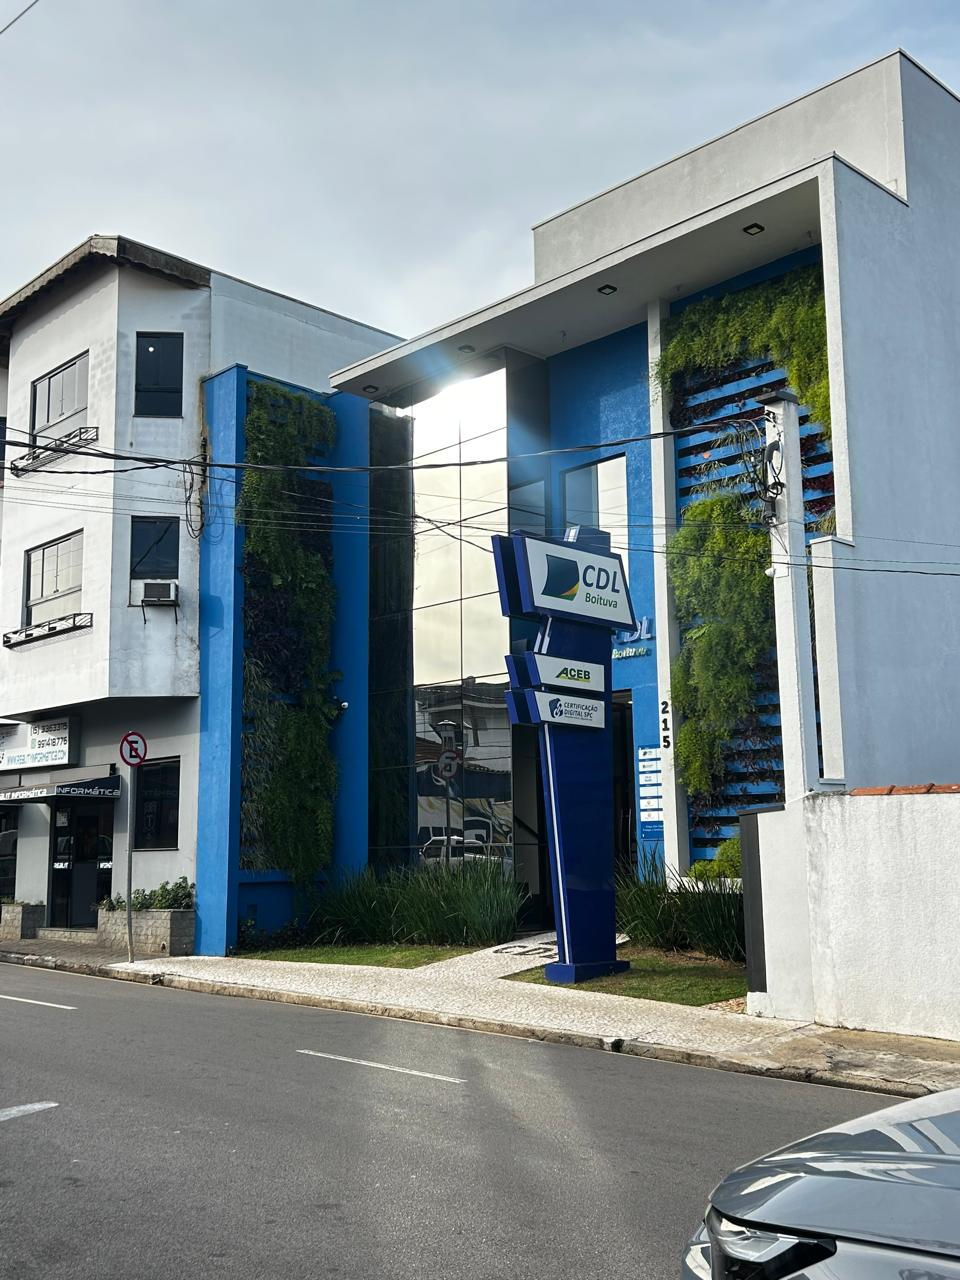
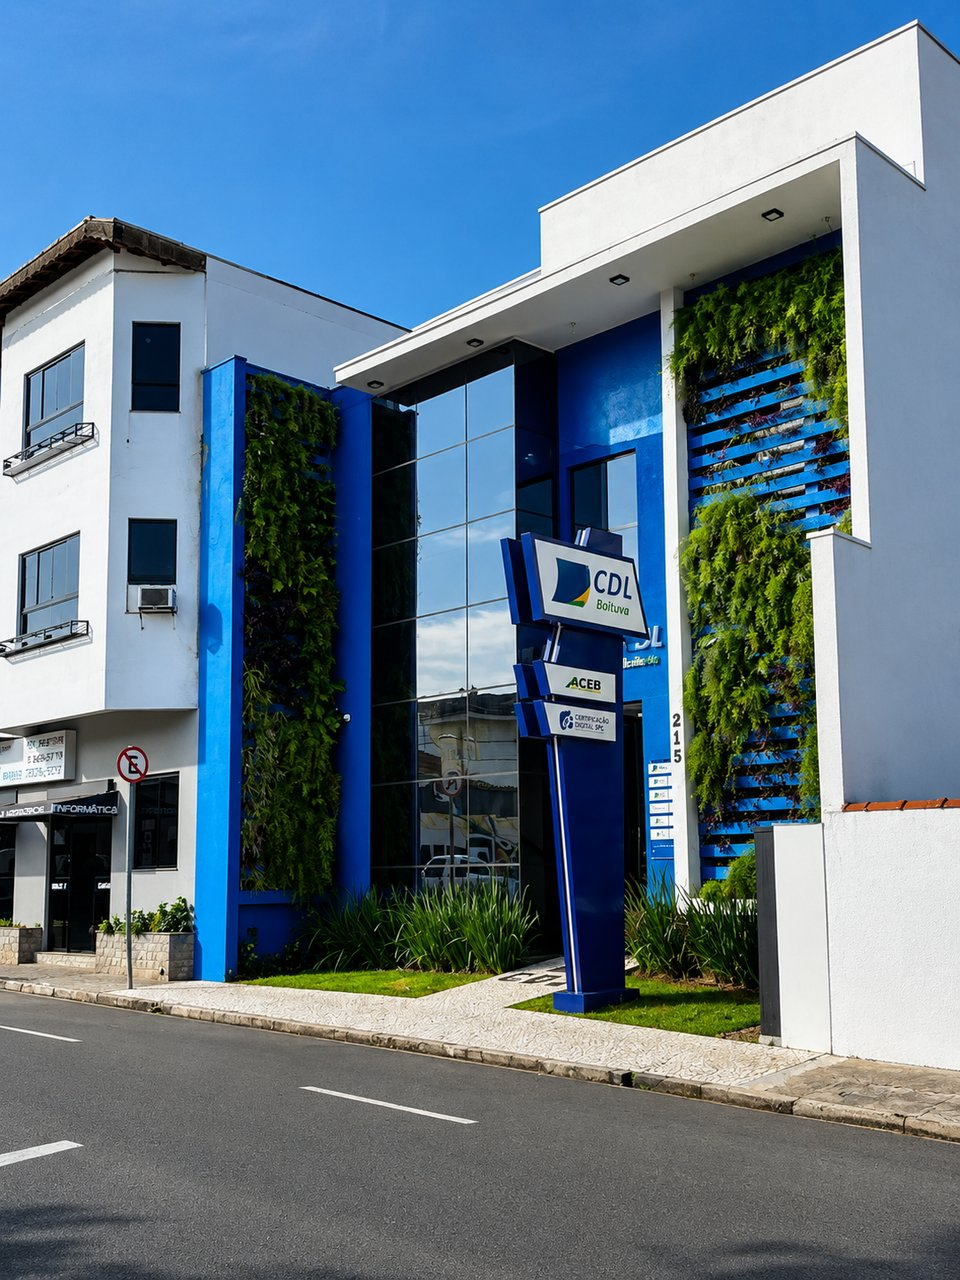
feat: adiciona lightbox nas galerias e ajusta fotos de Salas Comerciais
- Adiciona lightbox (clique para ampliar, navegar e fechar com Esc) em
  todas as paginas de empreendimentos via js/script.js
- Deixa as fotos da galeria menos alongadas em todos os breakpoints
- Atualiza foto de Salas Comerciais (fachada CDL Boituva) com imagem
  em melhor qualidade e angulo

diff --git a/js/script.js b/js/script.js
@@ -184,3 +184,79 @@ if (scrollDown) {
     window.scrollBy({ top: window.innerHeight * 0.8, behavior: 'smooth' });
   });
 }
+
+// ── Lightbox das galerias de empreendimentos ──
+(function () {
+  const galleries = document.querySelectorAll('.emp-gallery');
+  if (!galleries.length) return;
+
+  const lightbox = document.createElement('div');
+  lightbox.className = 'lightbox';
+  lightbox.innerHTML =
+    '<button class="lightbox__close" aria-label="Fechar">&times;</button>' +
+    '<button class="lightbox__btn lightbox__btn--prev" aria-label="Imagem anterior">' +
+    '<svg width="14" height="24" viewBox="0 0 12 20" fill="none"><path d="M11 1L1 10l10 9" stroke="white" stroke-width="2" stroke-linecap="round" stroke-linejoin="round" /></svg>' +
+    '</button>' +
+    '<img class="lightbox__img" src="" alt="" />' +
+    '<button class="lightbox__btn lightbox__btn--next" aria-label="Próxima imagem">' +
+    '<svg width="14" height="24" viewBox="0 0 12 20" fill="none"><path d="M1 1l10 9-10 9" stroke="white" stroke-width="2" stroke-linecap="round" stroke-linejoin="round" /></svg>' +
+    '</button>';
+  document.body.appendChild(lightbox);
+
+  const lbImg = lightbox.querySelector('.lightbox__img');
+  const lbPrev = lightbox.querySelector('.lightbox__btn--prev');
+  const lbNext = lightbox.querySelector('.lightbox__btn--next');
+  const lbClose = lightbox.querySelector('.lightbox__close');
+
+  let currentImgs = [];
+  let currentIndex = 0;
+
+  function updateLightbox() {
+    const img = currentImgs[currentIndex];
+    lbImg.src = img.src;
+    lbImg.alt = img.alt;
+    const multi = currentImgs.length > 1;
+    lbPrev.style.display = multi ? 'flex' : 'none';
+    lbNext.style.display = multi ? 'flex' : 'none';
+  }
+
+  function openLightbox(imgs, index) {
+    currentImgs = imgs;
+    currentIndex = index;
+    updateLightbox();
+    lightbox.classList.add('is-open');
+    document.body.style.overflow = 'hidden';
+  }
+
+  function closeLightbox() {
+    lightbox.classList.remove('is-open');
+    document.body.style.overflow = '';
+  }
+
+  lbPrev.addEventListener('click', () => {
+    currentIndex = (currentIndex - 1 + currentImgs.length) % currentImgs.length;
+    updateLightbox();
+  });
+  lbNext.addEventListener('click', () => {
+    currentIndex = (currentIndex + 1) % currentImgs.length;
+    updateLightbox();
+  });
+  lbClose.addEventListener('click', closeLightbox);
+  lightbox.addEventListener('click', (e) => {
+    if (e.target === lightbox) closeLightbox();
+  });
+  document.addEventListener('keydown', (e) => {
+    if (!lightbox.classList.contains('is-open')) return;
+    if (e.key === 'Escape') closeLightbox();
+    if (e.key === 'ArrowLeft') lbPrev.click();
+    if (e.key === 'ArrowRight') lbNext.click();
+  });
+
+  galleries.forEach(gallery => {
+    const imgs = Array.from(gallery.querySelectorAll('.emp-gallery__slide img'));
+    if (!imgs.length) return;
+    imgs.forEach(img => {
+      img.addEventListener('click', () => openLightbox(imgs, imgs.indexOf(img)));
+    });
+  });
+})();

diff --git a/css/style.css b/css/style.css
@@ -2566,3 +2566,92 @@ button {
     flex: 0 0 80%;
   }
 }
+
+/* ══════════════════════════════════════════
+   LIGHTBOX (galerias de empreendimentos)
+   ══════════════════════════════════════════ */
+.lightbox {
+  position: fixed;
+  inset: 0;
+  background: rgba(0, 0, 0, .92);
+  display: none;
+  align-items: center;
+  justify-content: center;
+  z-index: 9999;
+  padding: 60px 20px;
+}
+
+.lightbox.is-open {
+  display: flex;
+}
+
+.lightbox__img {
+  max-width: 100%;
+  max-height: 100%;
+  object-fit: contain;
+  border-radius: 16px;
+}
+
+.lightbox__close {
+  position: absolute;
+  top: 16px;
+  right: 16px;
+  width: 44px;
+  height: 44px;
+  border-radius: 50%;
+  border: none;
+  background: rgba(255, 255, 255, .12);
+  color: #fff;
+  font-size: 26px;
+  line-height: 1;
+  cursor: pointer;
+  display: flex;
+  align-items: center;
+  justify-content: center;
+  transition: background .2s;
+  z-index: 2;
+}
+
+.lightbox__close:hover {
+  background: rgba(255, 255, 255, .24);
+}
+
+.lightbox__btn {
+  position: absolute;
+  top: 50%;
+  transform: translateY(-50%);
+  width: 48px;
+  height: 48px;
+  border-radius: 50%;
+  border: none;
+  background: rgba(255, 255, 255, .12);
+  color: #fff;
+  cursor: pointer;
+  display: flex;
+  align-items: center;
+  justify-content: center;
+  transition: background .2s;
+  z-index: 2;
+}
+
+.lightbox__btn:hover {
+  background: rgba(255, 255, 255, .24);
+}
+
+.lightbox__btn--prev {
+  left: 12px;
+}
+
+.lightbox__btn--next {
+  right: 12px;
+}
+
+@media (min-width: 768px) {
+  .lightbox__btn--prev {
+    left: 24px;
+  }
+
+  .lightbox__btn--next {
+    right: 24px;
+  }
+}

diff --git a/css/moncoes.css b/css/moncoes.css
@@ -69,9 +69,10 @@
 
 .emp-gallery__slide img {
   width: 100%;
-  height: 260px;
+  height: 320px;
   object-fit: cover;
   display: block;
+  cursor: pointer;
 }
 
 .emp-gallery__btn {
@@ -353,7 +354,7 @@
   }
 
   .emp-gallery__slide img {
-    height: 400px;
+    height: 480px;
   }
 
   .emp-gallery__btn {
@@ -397,7 +398,7 @@
   }
 
   .emp-gallery__slide img {
-    height: 560px;
+    height: 660px;
   }
 
   .emp-gallery__btn {
@@ -427,7 +428,7 @@
   }
 
   .emp-gallery__slide img {
-    height: 624px;
+    height: 760px;
   }
 
   .emp-detail-desc {
